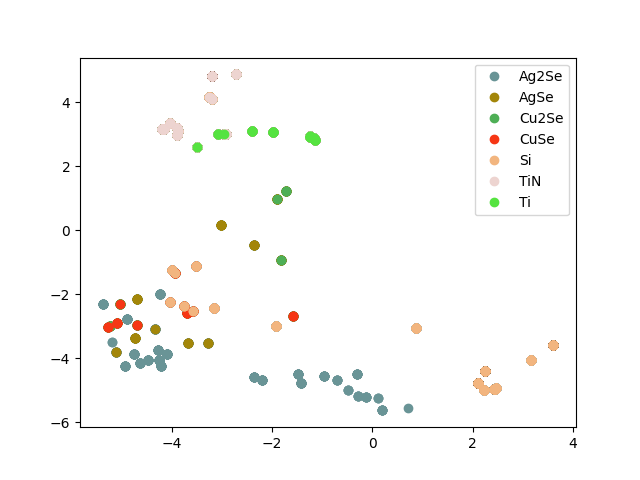
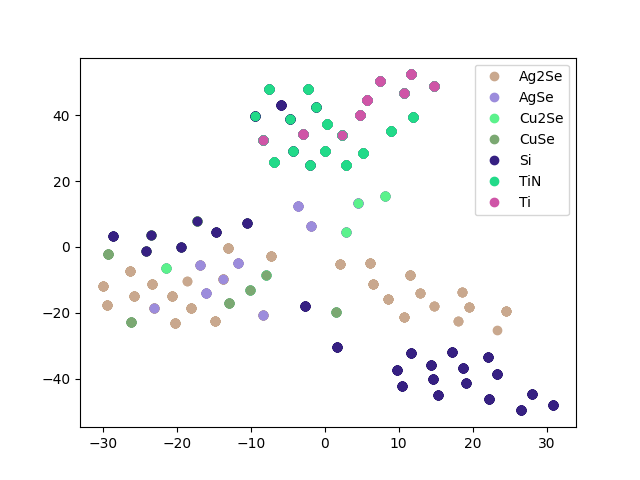
metrica error con distancia euclidiana

diff --git a/project/code/GeneralFunctions.py b/project/code/GeneralFunctions.py
@@ -1,6 +1,8 @@
 import csv
 import matplotlib.pyplot as plt
 import random
+import math
+import numpy as np
 
 
 # Function for importing a distance matrix from a cvs file into a python matrix
@@ -72,6 +74,7 @@ def plot(label_dict, X):
     return plt
 
 
+
 def randomColor():
     r = random.random()
 
@@ -81,3 +84,24 @@ def randomColor():
 
     color = (r, g, b)
     return color
+
+def euclidean_distance(X):
+    ans = []
+    for x in X:
+        l = []
+        for x2 in X:
+            l.append(float(math.sqrt((x[0] - x2[0]) ** 2 + (x[1] - x2[1]) ** 2)))
+        ans.append(l)
+    return ans
+
+
+def normalizar(m):
+    maximo = m.max()
+    return np.divide(m, maximo)
+
+def error(m, x):
+    distancias = euclidean_distance(x)
+    distancias = np.array(distancias, dtype=np.float64)
+    m1 = normalizar(distancias)
+    m2 = normalizar(m)
+    return round(100*sum(sum(abs(np.subtract(m1, m2)))) / (91 * 91), 2)

diff --git a/project/code/t_sne.py b/project/code/t_sne.py
@@ -1,5 +1,6 @@
 from project.code import GeneralFunctions as fun
 from sklearn.manifold import TSNE
+import numpy as np
 
 
 class Sne():
@@ -11,13 +12,17 @@ class Sne():
 
     def run(self):
         mat, labels = fun.readMatrix(self.path_to_file + self.currentFile)
+        mat = np.array(mat, dtype=np.float64)
 
         label_dict = fun.create_dictionary(labels)
 
-        X_embedded = TSNE(n_components=2).fit_transform(mat)
-
+        seed = np.random.RandomState(seed=5)
+        X_embedded = TSNE(n_components=2,  random_state=seed).fit_transform(mat)
         plt = fun.plot(label_dict, X_embedded)
         plt.savefig(self.path_to_results + 't-sne.png')
+
+
+        print('Error: ', str(fun.error(mat, X_embedded)) + '%')
 
 
 def main():

diff --git a/project/code/MDS.py b/project/code/MDS.py
@@ -14,7 +14,7 @@ class Mds():
         mat, labels = fun.readMatrix(self.path_to_file + self.currentFile)
         mat = np.array(mat, dtype=np.float64)
 
-        seed = np.random.RandomState(seed=6)
+        seed = np.random.RandomState(seed=3)
         embedding = MDS(n_components=2, dissimilarity='precomputed', random_state=seed)
         X_transformed = embedding.fit_transform(mat)
 
@@ -23,6 +23,8 @@ class Mds():
         plt = fun.plot(dic, X_transformed)
 
         plt.savefig(self.path_to_results + 'mds.png')
+
+        print('Error: ', str(fun.error(mat, X_transformed)) + '%')
 
 
 def main():
